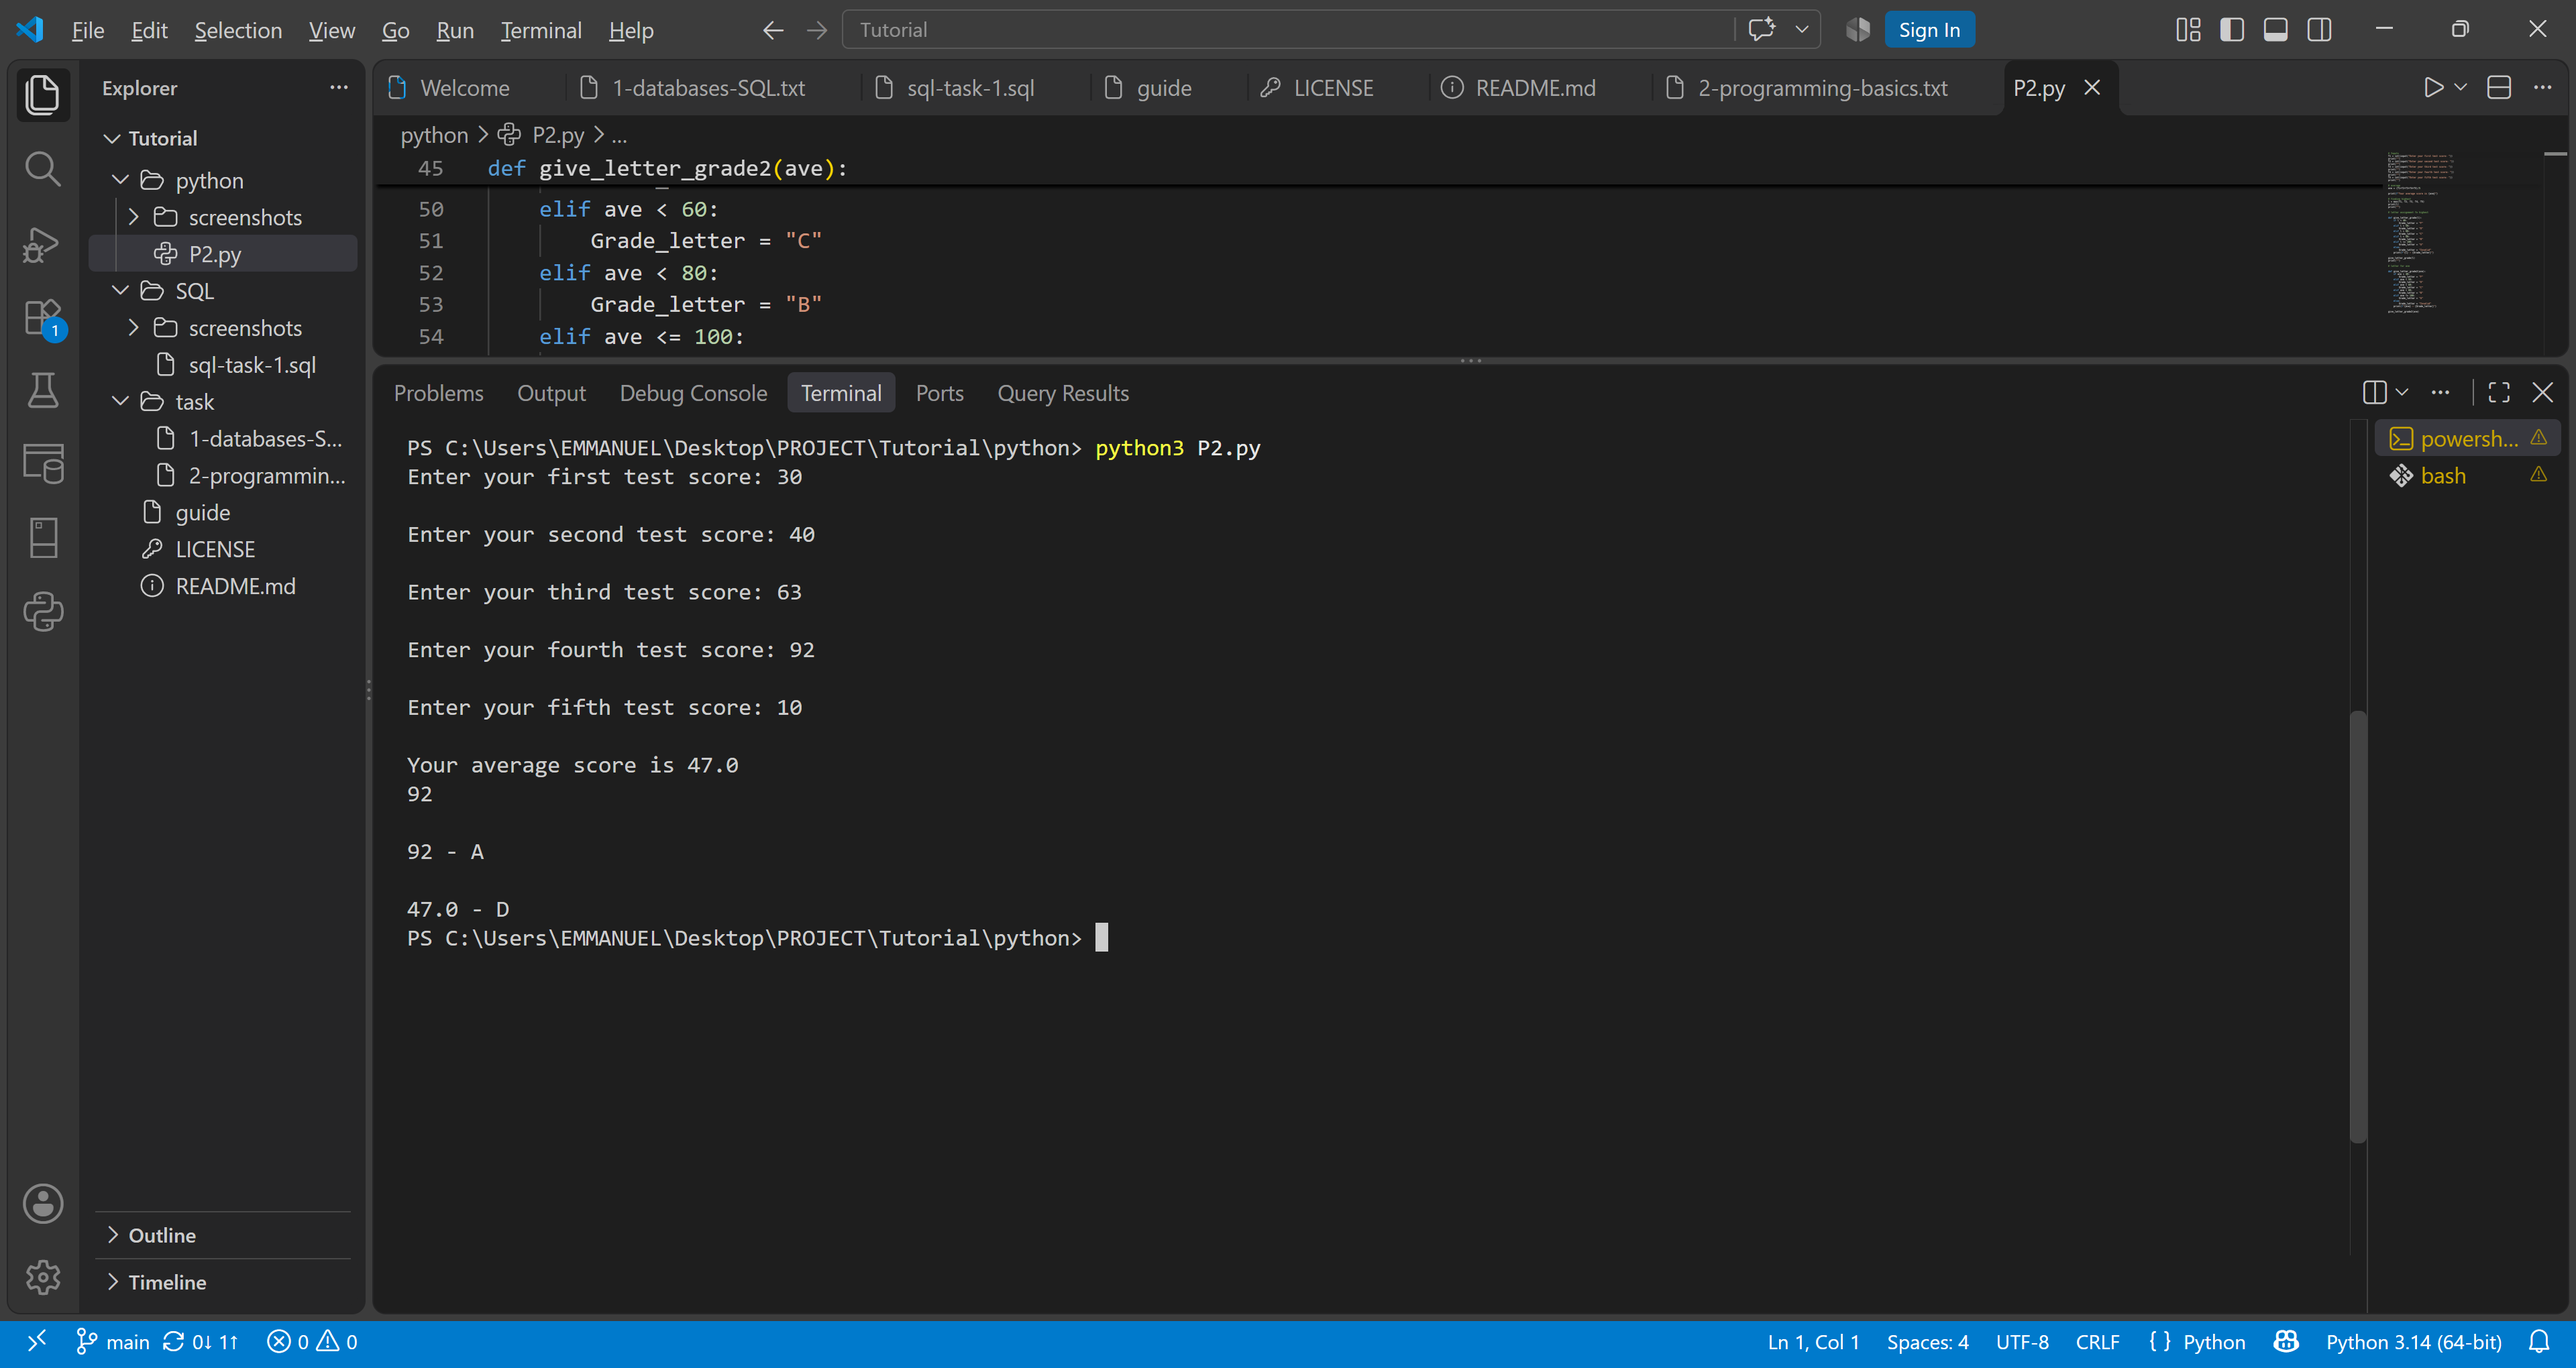
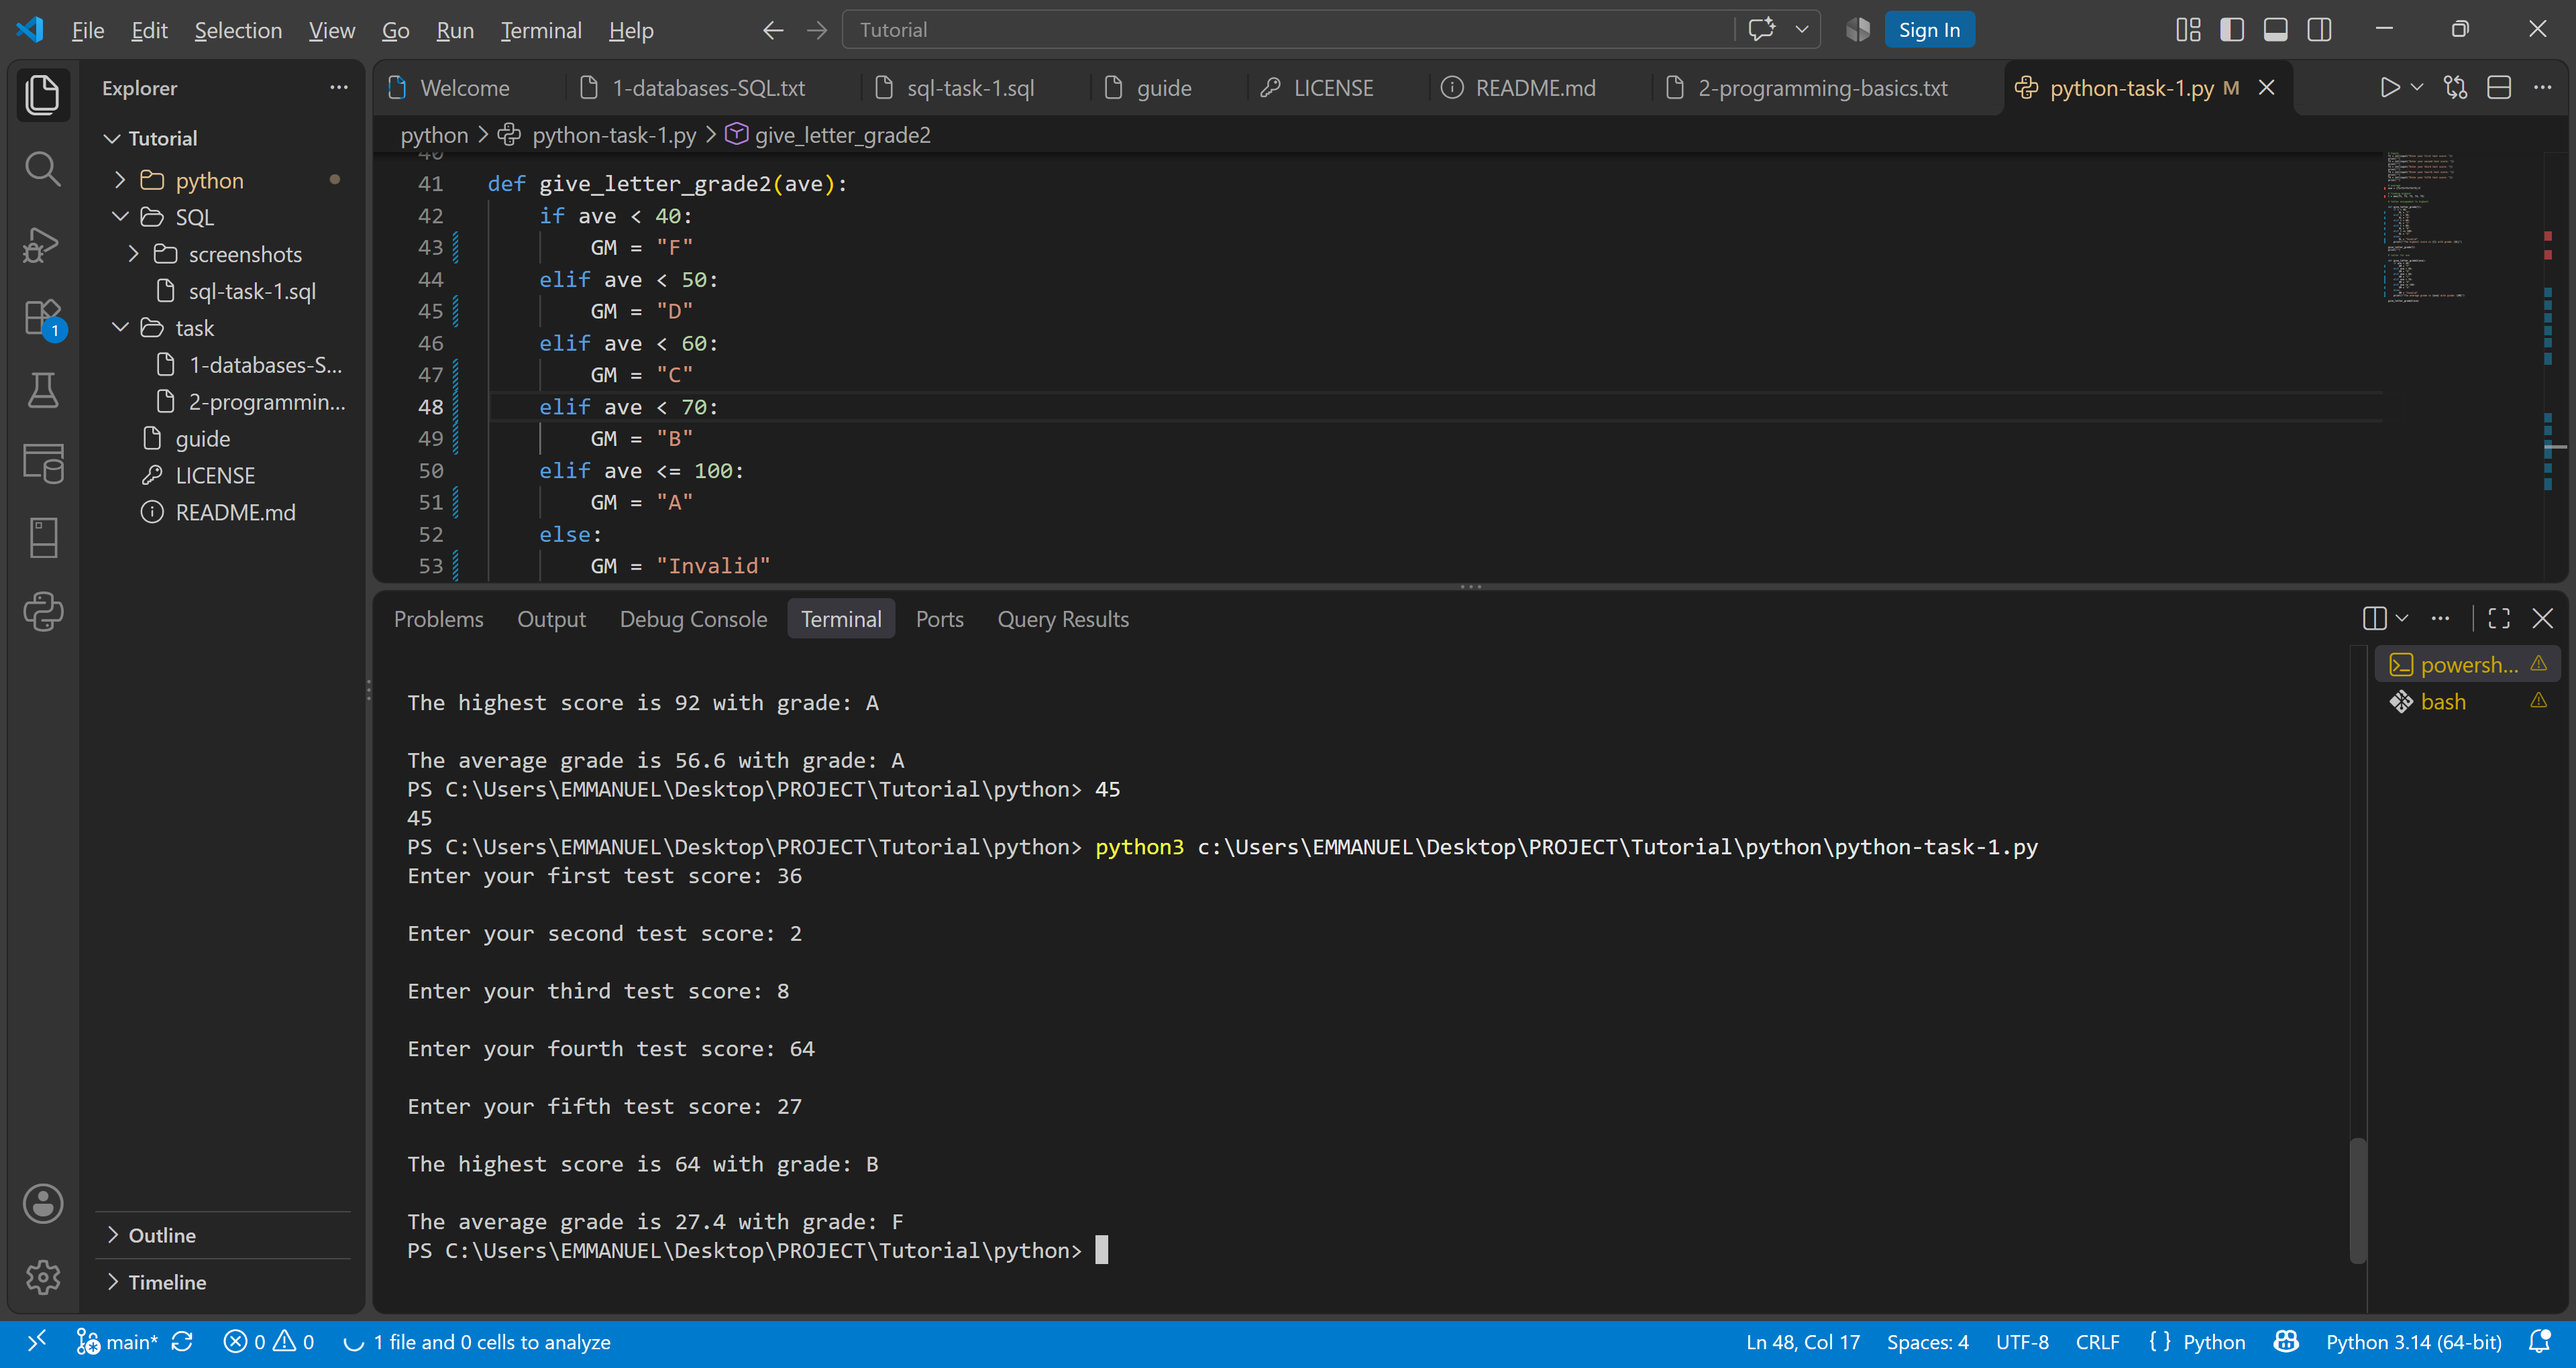
Python_Test1

diff --git a/python/python-task-1.py b/python/python-task-1.py
@@ -13,29 +13,25 @@ print("")
 # average
 ave = (T1+T2+T3+T4+T5)/5
 
-print(f"Your average score is {ave}")
-
 # finding highest
 l = max(T1, T2, T3, T4, T5)
-print(l)
-print("")
 
 # letter assignment fo highest
 
 def give_letter_grade(l):
     if l < 40:
-        Grade_letter = "F"
+        GL = "F"
     elif l < 50:
-        Grade_letter = "D"
+        GL = "D"
     elif l < 60:
-        Grade_letter = "C"
+        GL = "C"
     elif l < 80:
-        Grade_letter = "B"
+        GL = "B"
     elif l <= 100:
-        Grade_letter = "A"
+        GL = "A"
     else:
-        Grade_letter = "Invalid"
-    print(f"{l} - {Grade_letter}")
+        GL = "Invalid"
+    print(f"The highest score is {l} with grade: {GL}")
 
 give_letter_grade(l)
 print("")
@@ -44,17 +40,17 @@ print("")
 
 def give_letter_grade2(ave):
     if ave < 40:
-        Grade_letter = "F"
+        GM = "F"
     elif ave < 50:
-        Grade_letter = "D"
+        GM = "D"
     elif ave < 60:
-        Grade_letter = "C"
-    elif ave < 80:
-        Grade_letter = "B"
+        GM = "C"
+    elif ave < 70:
+        GM = "B"
     elif ave <= 100:
-        Grade_letter = "A"
+        GM = "A"
     else:
-        Grade_letter = "Invalid"
-    print(f"{ave} - {Grade_letter}")
+        GM = "Invalid"
+    print(f"The average grade is {ave} with grade: {GM}")
 
 give_letter_grade2(ave)
